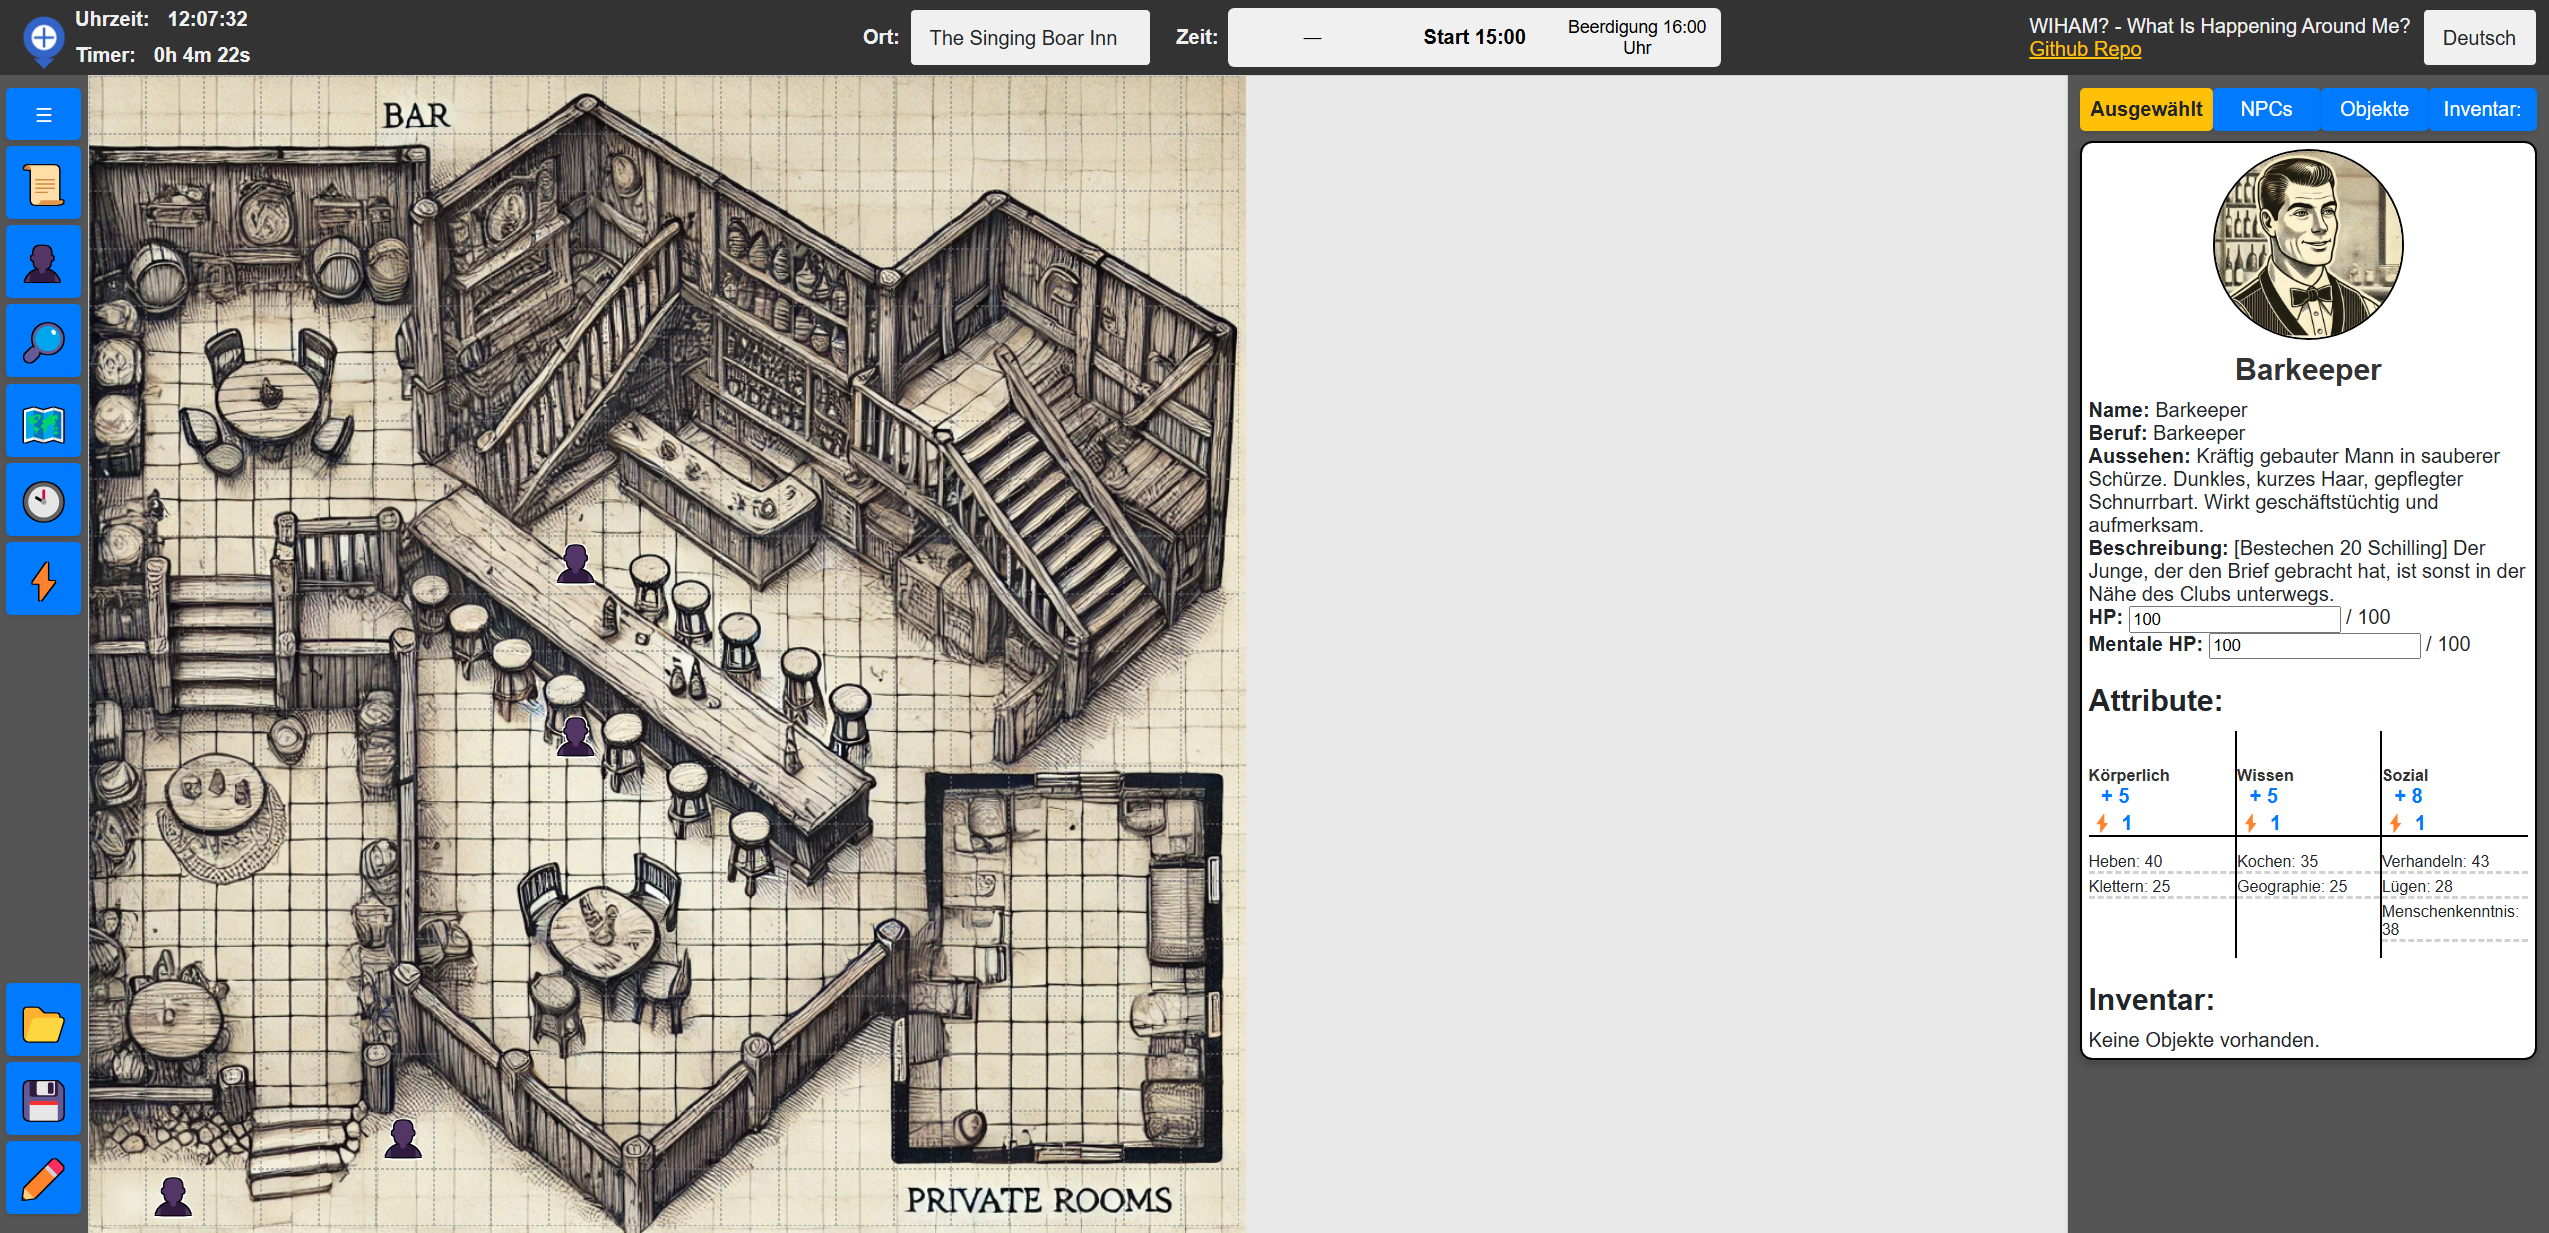
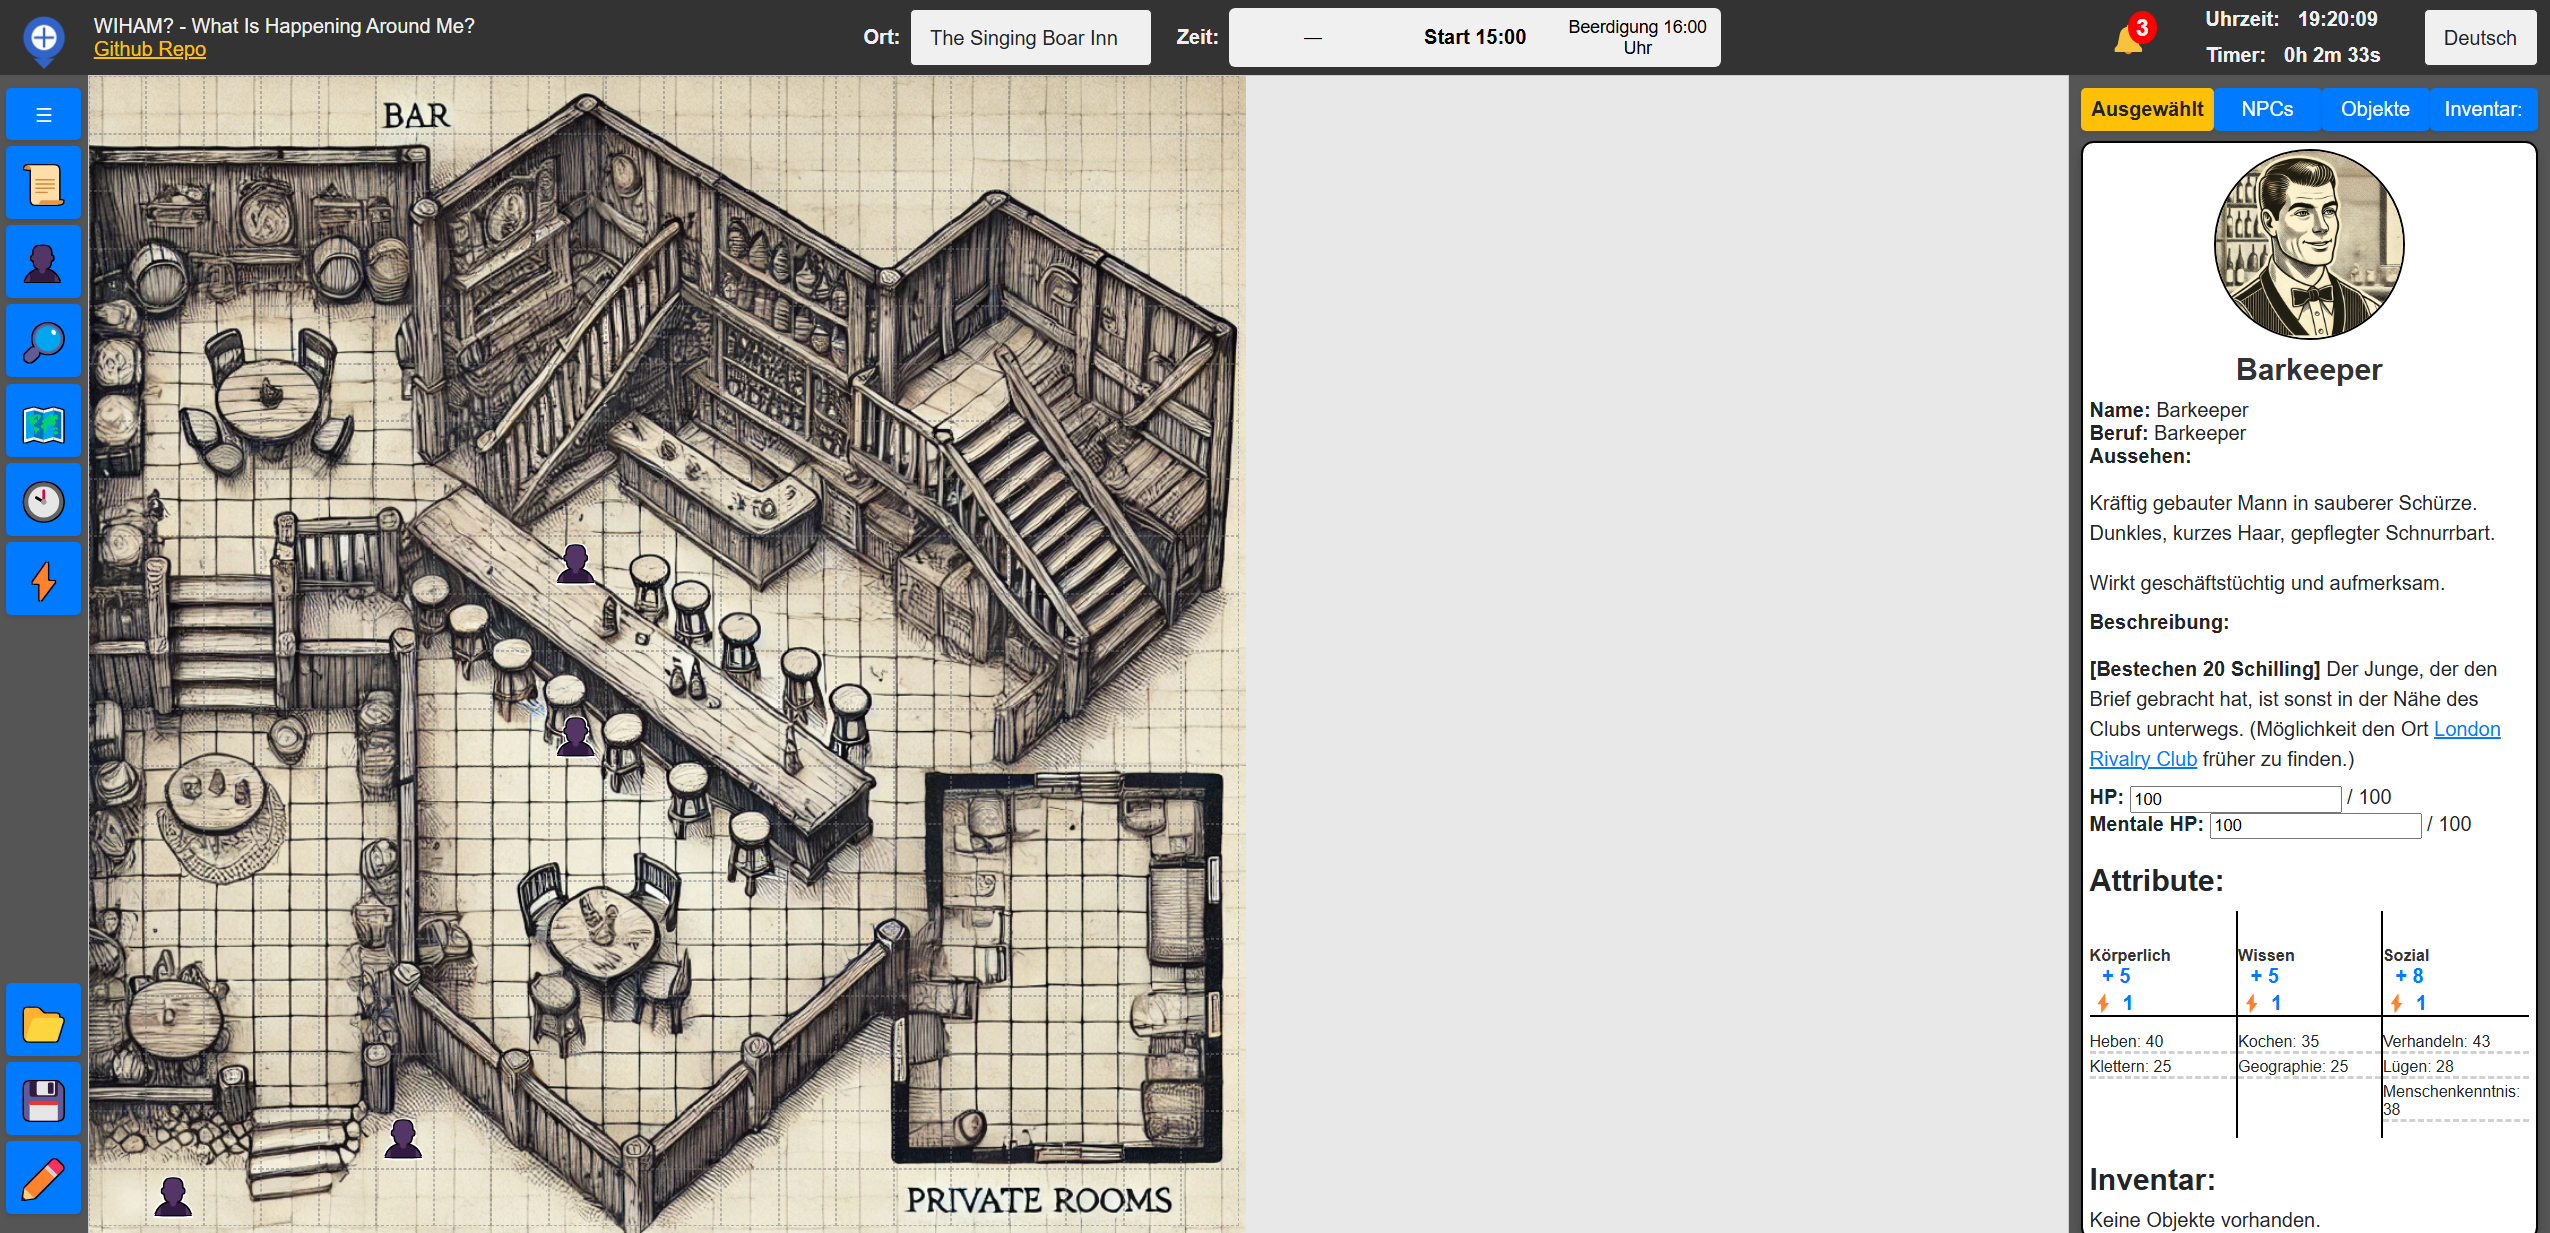
header rearanged

diff --git a/index.html b/index.html
@@ -48,16 +48,11 @@
   <header>
     <div id="headerLeft">
       <img src="/assets/logo.png" id="logo" alt="Logo" />
-      <div id="timeContainer">
-        <div id="realTimeContainer">
-          <label data-i18n="realTimeLabel">Uhrzeit:</label>
-          <span id="realTime"></span>
-        </div>
-        <div id="pageTimerContainer">
-          <label data-i18n="timerLabel">Timer:</label>
-          <span id="pageTimer"></span>
-        </div>
+      <div style="padding-left: 15px;">
+        WIHAM? - What Is Happening Around Me?<br>
+        <a style="color: var(--accent-color);" href="https://github.com/W-I-H-A-M/W-I-H-A-M.github.io">Github Repo</a>
       </div>
+      
     </div>
     <div id="headerCenter">
       <div id="locationTimeBar">
@@ -78,9 +73,15 @@
       <div id="notificationDropdown" class="dropdown hidden">
         <ul id="notificationList"></ul>
       </div>
-      <div style="padding-right: 10px;">
-        WIHAM? - What Is Happening Around Me?<br>
-        <a style="color: var(--accent-color);" href="https://github.com/W-I-H-A-M/W-I-H-A-M.github.io">Github Repo</a>
+      <div id="timeContainer">
+        <div id="realTimeContainer">
+          <label data-i18n="realTimeLabel">Uhrzeit:</label>
+          <span id="realTime">00:00:00</span>
+        </div>
+        <div id="pageTimerContainer">
+          <label data-i18n="timerLabel">Timer:</label>
+          <span id="pageTimer">00h 00m 00s</span>
+        </div>
       </div>
       <select id="languageSelector"></select>
     </div>

diff --git a/css/style.css b/css/style.css
@@ -997,6 +997,8 @@ div.attributes-section>div>div:nth-child(2) {
   gap: 10px;
   font-size: 16px;
   font-weight: bold;
+  min-width: 175px;
+  margin-left: 35px;
 }
 
 #realTimeContainer,
@@ -1113,23 +1115,25 @@ div.attributes-section>div>div:nth-child(2) {
 /* Keyframes for dropdown animations */
 @keyframes dropdownOpen {
   0% {
-      opacity: 0;
-      transform: scaleY(0);
+    opacity: 0;
+    transform: scaleY(0);
   }
+
   100% {
-      opacity: 1;
-      transform: scaleY(1);
+    opacity: 1;
+    transform: scaleY(1);
   }
 }
 
 @keyframes dropdownClose {
   0% {
-      opacity: 1;
-      transform: scaleY(1);
+    opacity: 1;
+    transform: scaleY(1);
   }
+
   100% {
-      opacity: 0;
-      transform: scaleY(0);
+    opacity: 0;
+    transform: scaleY(0);
   }
 }
 
@@ -1177,7 +1181,7 @@ div.attributes-section>div>div:nth-child(2) {
   font-size: 0.9em;
 }
 
-#notificationList{
+#notificationList {
   padding-left: 0px;
 }
 
@@ -1187,15 +1191,17 @@ div.attributes-section>div>div:nth-child(2) {
 
 .modal {
   position: fixed;
-  top: 0; left: 0;
-  width: 100%; 
+  top: 0;
+  left: 0;
+  width: 100%;
   height: 100%;
   background: rgba(0, 0, 0, 0.5);
   /* halb-transparent */
   display: flex;
   align-items: center;
   justify-content: center;
-  z-index: 9999; /* über allem anderen */
+  z-index: 9999;
+  /* über allem anderen */
 }
 
 .modal-content {
